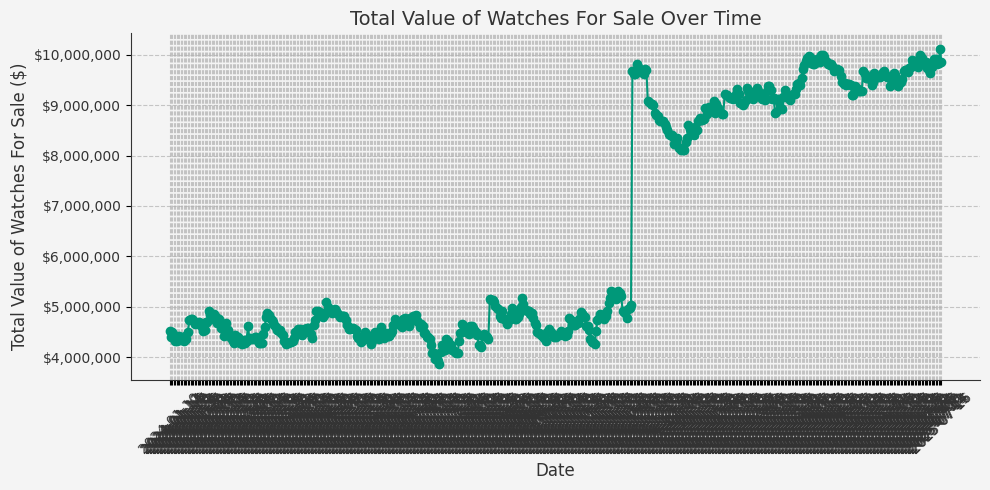
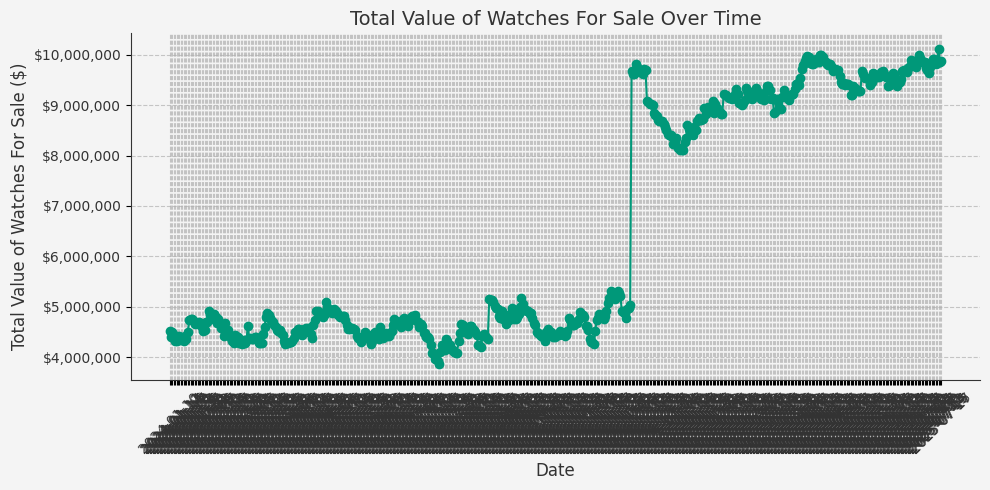
Update docs, portfolio image and portfolio statistics

Changed region(s): [[0.2121, 0.0612, 0.9697, 0.9184]]

diff --git a/docs/index.html b/docs/index.html
@@ -54,12 +54,12 @@
     </style>
 </head>
 <body>
-    <h1>Watch Data Report - 2025-07-16</h1>
+    <h1>Watch Data Report - 2025-07-17</h1>
     <div class="stats">
         <h3>Summary Statistics</h3>
-        <p>Value of sold Watches: $335,300.00</p>
-        <p>Value of listed Watches: $51,650.00</p>
-        <p>Value of unsold Watches: $9,850,700.00</p>
+        <p>Value of sold Watches: $0.00</p>
+        <p>Value of listed Watches: $0.00</p>
+        <p>Value of unsold Watches: $9,867,700.00</p>
     </div>
     <h2>Price Changes Today:</h2>
     <table border="1" class="dataframe table">
@@ -72,24 +72,6 @@
     </tr>
   </thead>
   <tbody>
-    <tr>
-      <td>2012 Rolex Daytona 116520 With Papers And Hang Tag</td>
-      <td>sold</td>
-      <td>$21,850.00</td>
-      <td><a href="https://tropicalwatch.com/watches/2012-rolex-daytona-116520-with-papers-and-hang-tag/kqcs" target="_blank">Link</a></td>
-    </tr>
-    <tr>
-      <td>1988 Rolex Day-Date 18238 Taupe Dial</td>
-      <td>$18,950.00</td>
-      <td>$18,650.00</td>
-      <td><a href="https://tropicalwatch.com/watches/1988-rolex-day-date-18238-taupe-dial/oygb" target="_blank">Link</a></td>
-    </tr>
-    <tr>
-      <td>1967 Rolex Daytona 6239 Black Dial</td>
-      <td>$42,850.00</td>
-      <td>$41,850.00</td>
-      <td><a href="https://tropicalwatch.com/watches/1967-rolex-daytona-6239-black-dial/i4av" target="_blank">Link</a></td>
-    </tr>
   </tbody>
 </table>
 
@@ -103,41 +85,6 @@
     </tr>
   </thead>
   <tbody>
-    <tr>
-      <td>2001 Rolex Sea-Dweller 16600 With Papers</td>
-      <td>$9,250.00</td>
-      <td><a href="https://tropicalwatch.com/watches/2001-rolex-sea-dweller-16600-with-papers/f8ow" target="_blank">Link</a></td>
-    </tr>
-    <tr>
-      <td>1987 Rolex Submariner 5513 Wgs Dial With Box And Papers</td>
-      <td>$12,850.00</td>
-      <td><a href="https://tropicalwatch.com/watches/1987-rolex-submariner-5513-wgs-dial-with-box-and-papers/yqdu" target="_blank">Link</a></td>
-    </tr>
-    <tr>
-      <td>2000 Rolex Air-King 14000 With Papers</td>
-      <td>$5,250.00</td>
-      <td><a href="https://tropicalwatch.com/watches/2000-rolex-air-king-14000-with-papers/5kbw" target="_blank">Link</a></td>
-    </tr>
-    <tr>
-      <td>1997 Rolex Air-King 14000 With Papers And Rsc</td>
-      <td>$5,350.00</td>
-      <td><a href="https://tropicalwatch.com/watches/1997-rolex-air-king-14000-with-papers-and-rsc/udlr" target="_blank">Link</a></td>
-    </tr>
-    <tr>
-      <td>1989 Rolex Datejust 16223 Beige Roman Numeral Dial</td>
-      <td>$7,350.00</td>
-      <td><a href="https://tropicalwatch.com/watches/1989-rolex-datejust-16223-beige-roman-numeral-dial/nkdi" target="_blank">Link</a></td>
-    </tr>
-    <tr>
-      <td>1995 Rolex Two-Tone Datejust 16233 White Roman Diamond Dial</td>
-      <td>$7,250.00</td>
-      <td><a href="https://tropicalwatch.com/watches/1995-rolex-two-tone-datejust-16233-white-roman-diamond-dial/i5wb" target="_blank">Link</a></td>
-    </tr>
-    <tr>
-      <td>1983 Rolex Oysterdate 6694 Blue Tropical Dial</td>
-      <td>$4,350.00</td>
-      <td><a href="https://tropicalwatch.com/watches/1983-rolex-oysterdate-6694-blue-tropical-dial/fnga" target="_blank">Link</a></td>
-    </tr>
   </tbody>
 </table>
 
@@ -151,46 +98,6 @@
     </tr>
   </thead>
   <tbody>
-    <tr>
-      <td>1966 Rolex Submariner 5513 Meters First Gilt Tropical Dial</td>
-      <td>Sold</td>
-      <td><a href="https://tropicalwatch.com/watches/1966-rolex-submariner-5513-meters-first-gilt-tropical-dial/irbd" target="_blank">Link</a></td>
-    </tr>
-    <tr>
-      <td>1997 Rolex 18K Yg Zenith Daytona 16528 Black Dial</td>
-      <td>Sold</td>
-      <td><a href="https://tropicalwatch.com/watches/1997-rolex-18k-yg-zenith-daytona-16528-black-dial/l2l8" target="_blank">Link</a></td>
-    </tr>
-    <tr>
-      <td>1999 Rolex Daytona 16520 Black Dial With Rolex Service Card</td>
-      <td>Sold</td>
-      <td><a href="https://tropicalwatch.com/watches/1999-rolex-daytona-16520-black-dial-with-rolex-service-card/ensv" target="_blank">Link</a></td>
-    </tr>
-    <tr>
-      <td>1989 Rolex Day-Date 18238 With Rolex Service Papers</td>
-      <td>Sold</td>
-      <td><a href="https://tropicalwatch.com/watches/1989-rolex-day-date-18238-with-rolex-service-papers/31hb" target="_blank">Link</a></td>
-    </tr>
-    <tr>
-      <td>1999 Rolex Explorer Ii 16570 White Dial With Box And Papers</td>
-      <td>Sold</td>
-      <td><a href="https://tropicalwatch.com/watches/1999-rolex-explorer-ii-16570-white-dial-with-box-and-papers/phe8" target="_blank">Link</a></td>
-    </tr>
-    <tr>
-      <td>2015 Patek Philippe Nautilus 5711/1A With Box And Archive</td>
-      <td>Sold</td>
-      <td><a href="https://tropicalwatch.com/watches/2015-patek-philippe-nautilus-5711-1a-with-box-and-archive/y1r9" target="_blank">Link</a></td>
-    </tr>
-    <tr>
-      <td>2018 Patek Philippe 18K Rg Aquanaut Travel Time 5164R With Box And Papers</td>
-      <td>Sold</td>
-      <td><a href="https://tropicalwatch.com/watches/2018-patek-philippe-18k-rg-aquanaut-travel-time-5164r-with-box-and-papers/jg0p" target="_blank">Link</a></td>
-    </tr>
-    <tr>
-      <td>1996 Rolex 18K Yg Ladies Diamond Pyramid Datejust 69178 Guilloché Mop Dial</td>
-      <td>Sold</td>
-      <td><a href="https://tropicalwatch.com/watches/1996-rolex-18k-yg-ladies-diamond-pyramid-datejust-69178-guilloche-mop-dial/i7wh" target="_blank">Link</a></td>
-    </tr>
   </tbody>
 </table>
 
